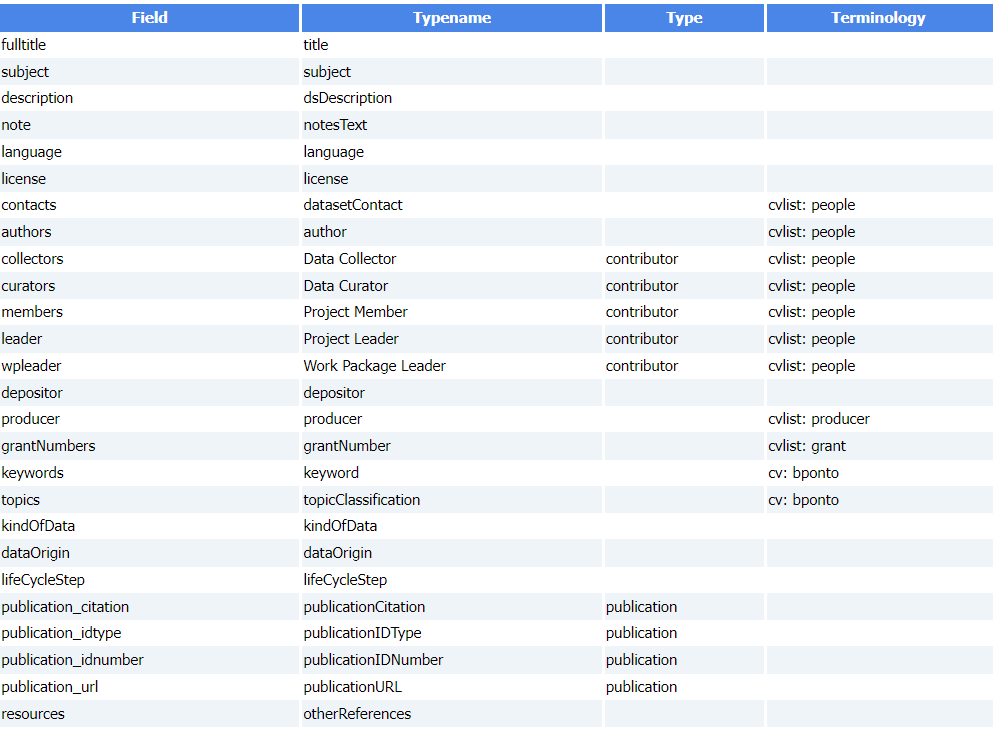
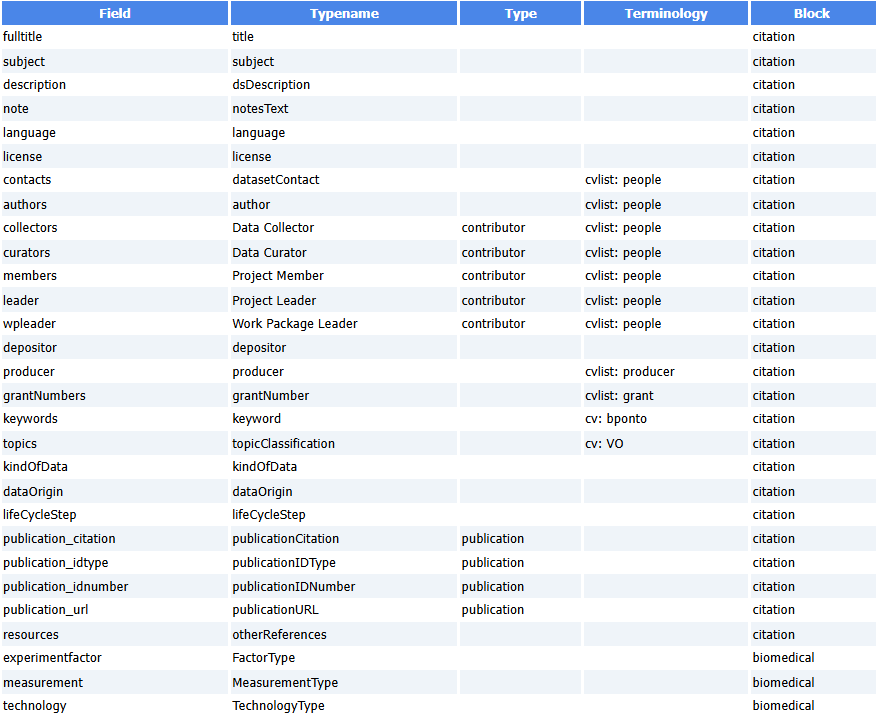
update

Changed region(s): [[0.0, 0.0, 1.0, 1.0], [0.524, 0.7364, 0.6781, 0.9512]]

diff --git a/docs/definitions/dataverse.md b/docs/definitions/dataverse.md
@@ -25,12 +25,13 @@ This definition file will allow Maggot to automatically export the dataset into 
 
 The structure of the [Dataverse JSON][2]{:target="_blank"} output file being known internally, a minimum of information is therefore necessary to carry out the correspondence.
 
-The file must have 4 columns with headers defined as follows:
+The file must have 4 columns + one optional with headers defined as follows:
 
-* column 1 - **Field** : shortname of the Maggot fields
+* column 1 - **Field** : Shortname of the Maggot fields
 * column 2 - **Typename** : The corresponding Dataverse fields. 
 * column 3 - **Type** :The Dataverse field at the top level encapsulating the fields in the “Typename” column where applicable
 * column 4 - **Terminology** : Indicates from which vocabulary the mapping should be performed. Concerning the vocabulary to be mapped either ***i)*** on a dictionary, you must put the name of the corresponding [dictionary](../../dictionaries) prefixed with ***cvlist:***, or ***ii)*** on ontologies or on a thesaurus, you must specify the corresponding entry in the [mapping definition file](../mapping) prefixing it with ***cv:***.
+* column 5 - **Block** (_optional_): Name of the metadata block. Currently, only two blocks are support, namely the _common metadata_ block called **_citation_**., the _life science_ metadata block called **_biomedical_**. This column is optional but in this case, this assumes that all metadata correspond to the common metadata block (_citation_).
 
 Below an example of Dataverse definition file (TSV)
 <center>
@@ -42,9 +43,94 @@ Example of Dataverse JSON file generated based on the definition file itself giv
 
    * [Dataverse JSON of the FRIM dataset][3]{:target="_blank"}
 
+### Common metadata block (_citation_)
+
+* List of **_Typename_** (column 2) supported by Maggot. Be careful of character case. See [the structure of the common metadata blocks][5]{:target="_blank"} in JSON format.
+
+Typename     | Decription       | Type | Terminology | Linked to a CV | Required
+------------ | -----------------|------|------------|---------------|--------------
+title |  The main title of the Dataset | - | - | No | Yes
+subject | The area of study relevant to the Dataset | - | - | Yes ^(1)^ | Yes
+dsDescription | A summary describing the purpose, nature, and scope of the Dataset | - | - | No | Yes
+note | Additional information about the Dataset | - | - | No | No
+language | A language that the Dataset's files is written in | - | - | Yes ^(1)^ | No
+license | License of the dataset | - | - | Yes ^(1)^| No
+contacts | The entity, e.g. a person or organization, that users of the Dataset can contact with questions | - |  must specified a dictionary (e.g. cvlist:people) | No | Yes
+author | The entity, e.g. a person or organization, that created the Dataset | - |  must specified a dictionary (e.g. cvlist:people) | No | Yes
+collectors | people who participated in the data collection | must be equal to _contributor_ |  must specified a dictionary (e.g. cvlist:people) | No | No
+curators | people who participated in the data curation | must be equal to _contributor_ |  must specified a dictionary (e.g. cvlist:people) | No | No 
+members | people involved in the project | must be equal to _contributor_ |  must specified a dictionary (e.g. cvlist:people) | No | No
+leaders | leaders of the projet | must be equal to _contributor_ |  must specified a dictionary (e.g. cvlist:people) | No | No
+wpleader | leader of a WP projct | must be equal to _contributor_ |  must specified a dictionary (e.g. cvlist:people) | No | No
+depositor | Depositor of the dataset | - |  - | No | No
+producer | The entity, such a person or organization, managing the finances or other administrative processes involved in the creation of the Dataset | - |  must specified a dictionary (e.g. cvlist:producer) | No | No
+grantNumbers | Information about the Dataset's financial support | - |  must specified a dictionary (e.g. cvlist:grant) | No | No
+keyword | A key term that describes an important aspect of the Dataset and information about any controlled vocabulary used | - | must be specified an ontology (e.g. cv:bponto) | No | No
+topics | Indicates a broad, important topic or subject that the Dataset covers and information about any controlled vocabulary used | - | must be specified an ontology (e.g. cv:bponto) | No | No
+kindOfData | The type of data included in the files (e.g. survey data, clinical data, or machine-readable text) | - | - | Yes ^(1)^ | Yes
+dataOrigin | Data Origin | - | - | Yes ^(1)^ | No
+lifeCycleStep | Specifies the event happening over the data life cycle that is considered significant enough to document. | - | - | Yes ^(1)^ | No
+publication_citation | The full bibliographic citation for the related publication | must be equal to _publication_ | - | No | No
+publication_idtype | The type of identifier that uniquely identifies a related publication | must be equal to _publication_ | - | Yes ^(1)^ | No
+publication_idnumber | The identifier for a related publication | must be equal to _publication_ | - | No | No
+publication_url | The URL form of the identifier entered in the Identifier field, e.g. the DOI URL if a DOI was entered in the Identifier field. | must be equal to _publication_ | - | No | No
+
+^(1)^ The list of CV terms must be defined either in the _Predefined terms_ column in the terminology definition file or in a javascipt. See [vocabulary](../vocabulary/)
+
+### Life science metadata block (_biomedical_)
+
+* List of **_Typename_** (column 2) supported by Maggot. Be careful of character case. See [the structure of the life science metadata blocks][6]{:target="_blank"} in JSON format.
+
+Typename     | Decription       | Type | Terminology | Linked to a CV | Required
+------------ | -----------------|------|------------|---------------|--------------
+Organism | The taxonomic name of the organism used in the Dataset or from which the  starting biological material derives. | - | - | Yes | No
+DesignType | Design types that are based on the overall experimental design. | - | - | Yes | No
+FactorType | Factors used in the Dataset. | - | - | Yes | No
+MeasurementType | A term to qualify the endpoint, or what is being measured (e.g. gene expression profiling; protein identification). | - | - | Yes | No
+TechnologyType | A term to identify the technology used to perform the measurement (e.g. DNA microarray; mass spectrometry). | - | - | Yes | No
+Platform | The manufacturer and name of the technology platform used in the assay (e.g. Bruker AVANCE). | - | - | Yes | No
+CellType | The name of the cell line from which the source or sample derives. | - | - | No | No
+SampleType | Sample description | - | - | No | No
+ProtocleType | Protocole type| - | - | No | No
+
+
+**Point of attention** : In the _Life Sciences_ metadata block, for some metadata (organism, study design, factor, measurement type, technology type, platform), you can choose either one or more terms from a list of predefined CVs (A), or one or more terms defined by the user (B).
+
+<center>
+<a href="../../images/dataverse_fig5.png" data-lightbox="fig5"><img src="../../images/dataverse_fig5.png" width="800px"></a>
+</center>
+<br>
+
+In Maggot, it is therefore  in principle necessary to define a list of predefined terms (dictionary) containing strictly the same list of terms if you want to associate a term already predefined (A) in Dataverse.
+
+**Issue**:
+
+* On the one hand, the predefined CV for each term in the _biomedical_ block is limited and cannot cover all situations. 
+* On the other hand, Maggot only allows associating a single CV source (e.g., a dictionary) with each term.
+
+**Solution retained**
+
+**a**) Regarding the [predefined CVs][7]{:target="_blank"}, the data manager has to add the most relevant ones to each suitable dictionary.
+
+**b**) During the transfer to Dataverse, a sorting mechanism between the two types of vocabularies (predefined CVs and others) ensures that the fields in the Dataverse metadata record are correctly populated. 
+
+<center>
+<a href="../../images/dataverse_fig6.png" data-lightbox="fig6"><img src="../../images/dataverse_fig6.png" width="800px"></a>
+</center>
+<br>
+The figure below shown an example as an illustration:
+<center>
+<a href="../../images/dataverse_fig7.png" data-lightbox="fig7"><img src="../../images/dataverse_fig7.png" width="800px"></a>
+</center>
+<br>
+
 <br><br>
 
 [1]: https://dataverse.org/
 [2]: https://guides.dataverse.org/en/latest/api/native-api.html#import-a-dataset-into-a-dataverse-collection
 [3]: https://pmb-bordeaux.fr/maggot/metadata/frim1?format=dataverse
 [4]: https://open-research-europe.ec.europa.eu/for-authors/data-guidelines#approvedrepositories
+[5]: https://demo.recherche.data.gouv.fr/api/metadatablocks/citation
+[6]: https://demo.recherche.data.gouv.fr/api/metadatablocks/biomedical
+[7]: https://pmb-bordeaux.fr/maggot/check?biomedicalCV
+

diff --git a/docs/definitions/vocabulary.md b/docs/definitions/vocabulary.md
@@ -36,9 +36,11 @@ some_url:
 </center>
 <br>
 
-**3** - **Vocabulary based on a web API in a text field** (*textbox*)
+**3** - **JavaScript-based vocabulary in a text field** (*textbox*)
 
-* The [web API][1]{:target="_blank"} is defined in a [JavaScript][13]{:target="_blank"} file with the same name as the assigned variable (here *cities*) and must present under *web/js/autocomplete*. For example, to enter a French city you can use the API [geo.api.gouv.fr][3]{:target="_blank"}. See [cities.js][4]{:target="_blank"}
+* The JavaScript here involves populating a list variable (e.g. _cities = [ ... ]_) with the desired vocabulary. The name of this variable must be the same as the name of the JavaScript file and must present under *web/js/autocomplete* (e.g. *cities.js*)
+
+* The list can be directly embedded in the code (e.g. [lifecycle.js][27]{:target="_blank"}) or retrieved via [web API][1]{:target="_blank"}. For example, to enter a French city you can use the API [geo.api.gouv.fr][3]{:target="_blank"}. See [cities.js][4]{:target="_blank"}
 
 <center>
 <a href="../../images/vocabulary_fig3.png" data-lightbox="fig3"><img src="../../images/vocabulary_fig3.png" width="800px"></a>
@@ -130,3 +132,4 @@ some_url:
 [24]: https://github.com/inrae/pgd-mmdt/blob/main/web/js/autocomplete/VO_typeahead.js
 [25]: https://github.com/inrae/pgd-mmdt/blob/main/web/inc/mapping/skosmos.inc
 [26]: https://semanticlookup.zbmed.de
+[27]: https://github.com/inrae/pgd-mmdt/blob/main/web/js/autocomplete/lifecycle.js

diff --git a/docs/about.md b/docs/about.md
@@ -58,6 +58,13 @@ some_url:
 
 * Daniel Jacob ([INRAE UR BIA-BIBS][2]{:target="_blank"} - [0000-0002-6687-7169][17]{:target="_blank"})
 
+
+### Discussion space
+
+* Issues tracker on [github][16]{:target="_blank"}
+* [Tchap][18]{:target="_blank"} : Only for the French education and research community
+
+
 ### Designers / Developers
 
 * Daniel Jacob ([INRAE UR BIA-BIBS][2]{:target="_blank"})
@@ -111,6 +118,7 @@ some_url:
 
 [16]: https://github.com/inrae/pgd-mmdt/issues
 [17]: https://orcid.org/0000-0002-6687-7169
+[18]: https://tchap.gouv.fr/#/room/#MaggotVhqYIz03cj9:agent.agriculture.tchap.gouv.fr
 
 [20]: https://www.gnu.org/licenses/gpl-3.0.html
 
